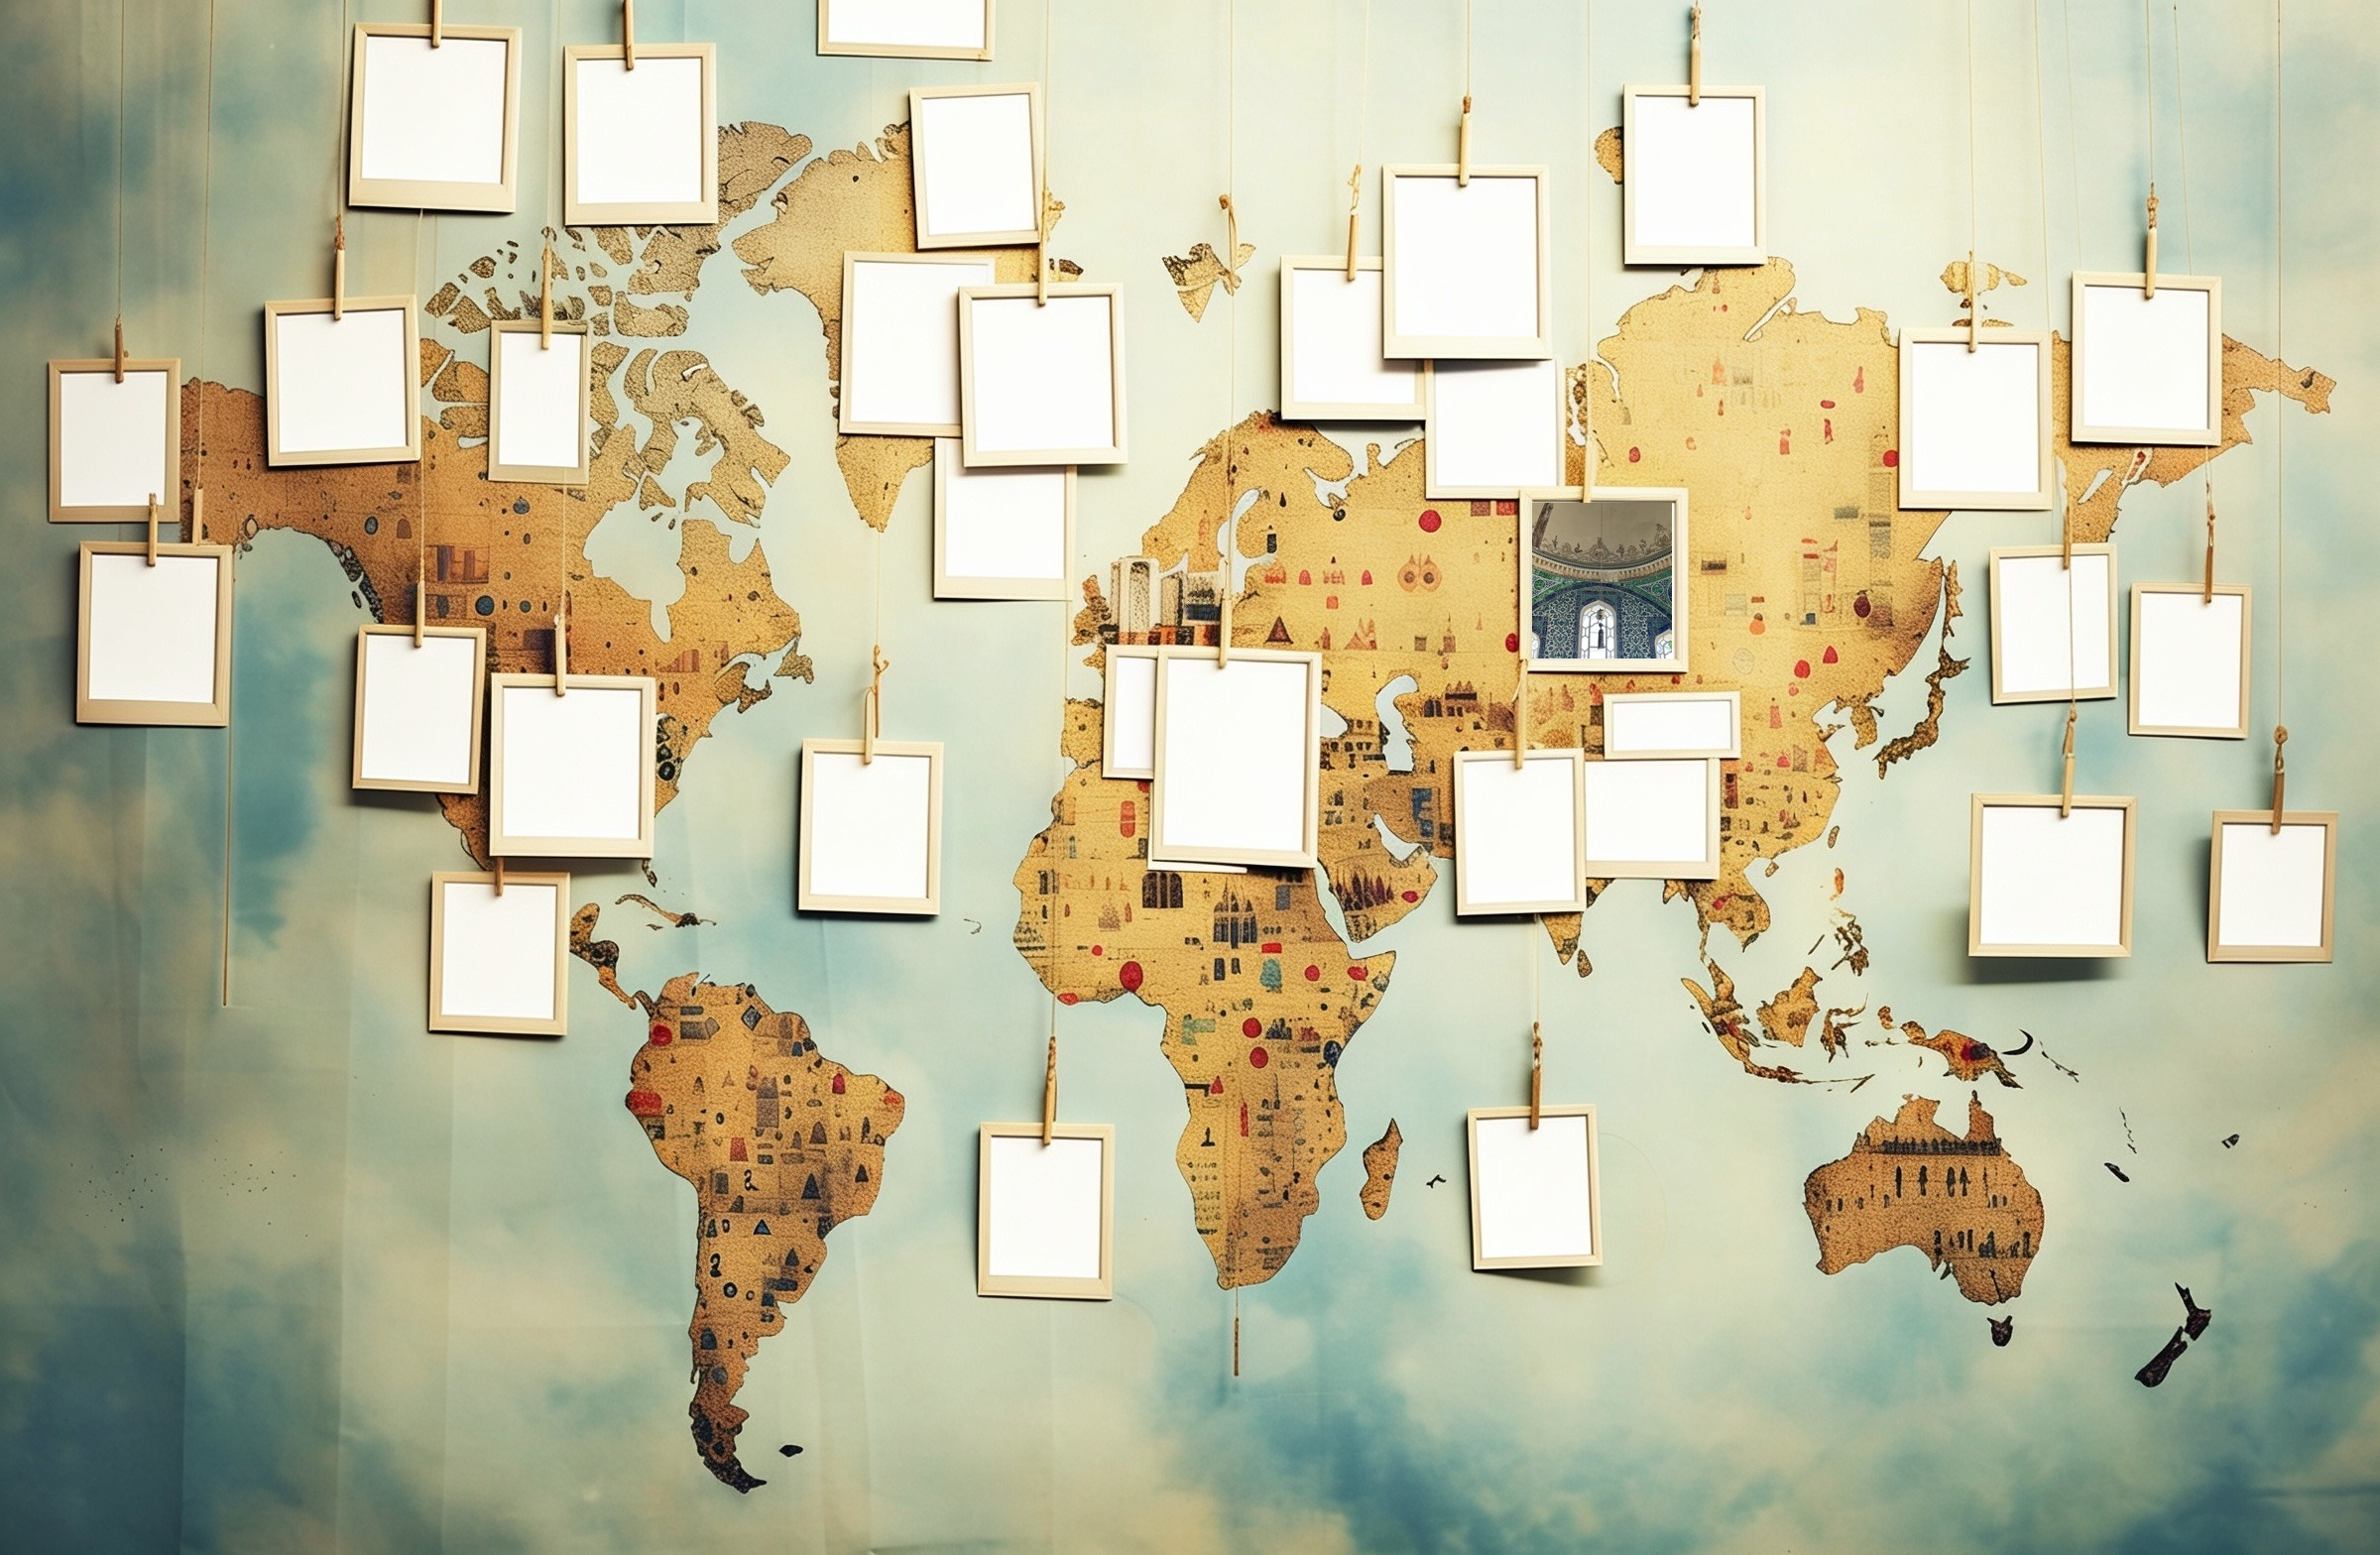
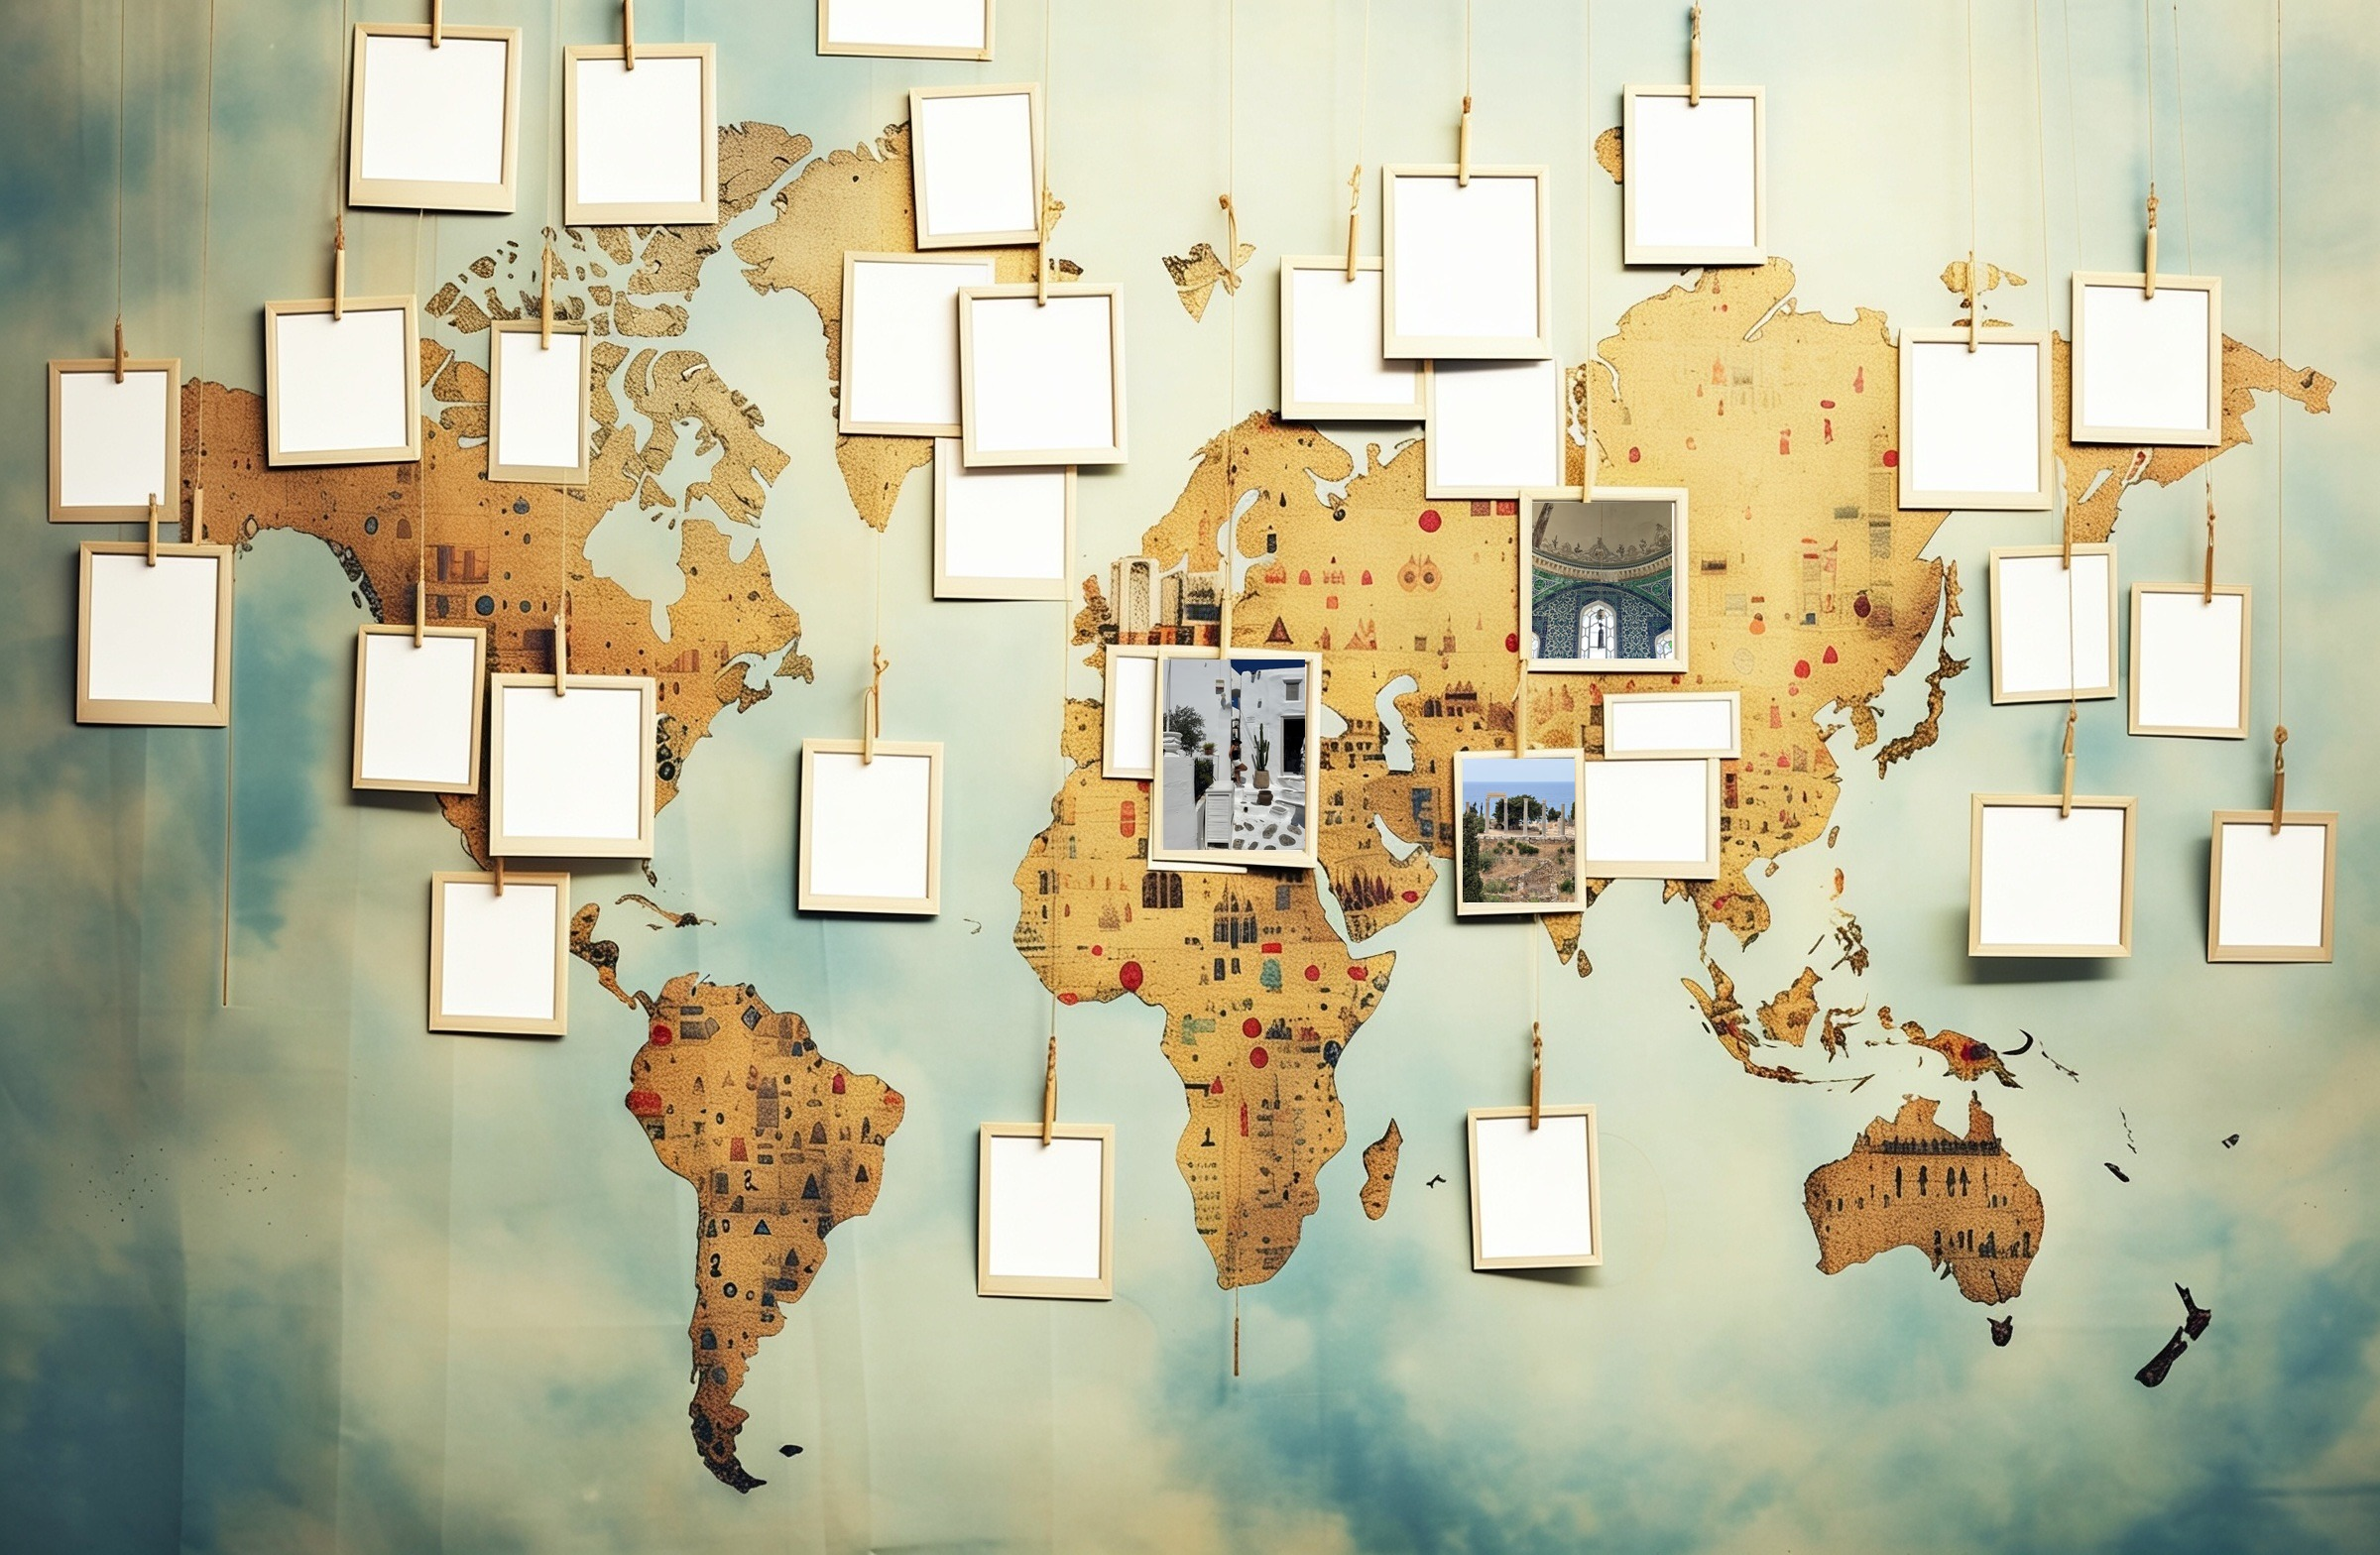
Composite Mykonos and Beirut photos into their frames; move all captions below frames

Changed region(s): [[0.4688, 0.4062, 0.5625, 0.5625], [0.5938, 0.4688, 0.6875, 0.5938]]

diff --git a/css/style.css b/css/style.css
@@ -400,15 +400,6 @@ section { padding: 5rem 0; }
 .gds-map-container { position: relative; width: 100%; margin: 0 auto; }
 .gds-map-inner { position: relative; width: 62%; margin: 0 auto; }
 .gds-world-map { width: 100%; height: auto; display: block; opacity: 0.7; }
-.gds-map-caption {
-  position: absolute; transform: rotate(var(--tilt, 0deg));
-  display: flex; align-items: center; justify-content: center;
-  overflow: hidden; pointer-events: none; padding: 6%; box-sizing: border-box;
-}
-.gds-map-caption span {
-  font-family: 'Caveat', cursive; font-size: clamp(0.42rem, 0.7vw, 0.6rem); line-height: 1.05;
-  color: #3a2a1a; text-align: center;
-}
 .gds-map-caption-below {
   position: absolute; transform: translateX(-50%);
   font-family: 'Caveat', cursive; font-size: clamp(0.55rem, 0.9vw, 0.75rem); line-height: 1.1;

diff --git a/index.html b/index.html
@@ -208,9 +208,9 @@
     <div class="gds-map-container">
       <div class="gds-map-inner">
         <img src="images/GDS%20hero%20composited.jpg" alt="Global Design Series" class="gds-world-map">
-        <div class="gds-map-caption" style="left:48.89%; top:42.43%; width:5.93%; height:12.2%; --tilt:0deg;"><span>Mykonos,<br>Greece</span></div>
+        <p class="gds-map-caption-below" style="left:51.85%; top:55.2%;">Mykonos, Greece</p>
         <p class="gds-map-caption-below" style="left:67.3%; top:42.6%;">Istanbul, Turkey</p>
-        <div class="gds-map-caption" style="left:61.47%; top:48.82%; width:4.69%; height:9.23%; --tilt:0deg;"><span>Beirut,<br>Lebanon</span></div>
+        <p class="gds-map-caption-below" style="left:63.81%; top:58.6%;">Beirut, Lebanon</p>
       </div>
     </div>
   </div>